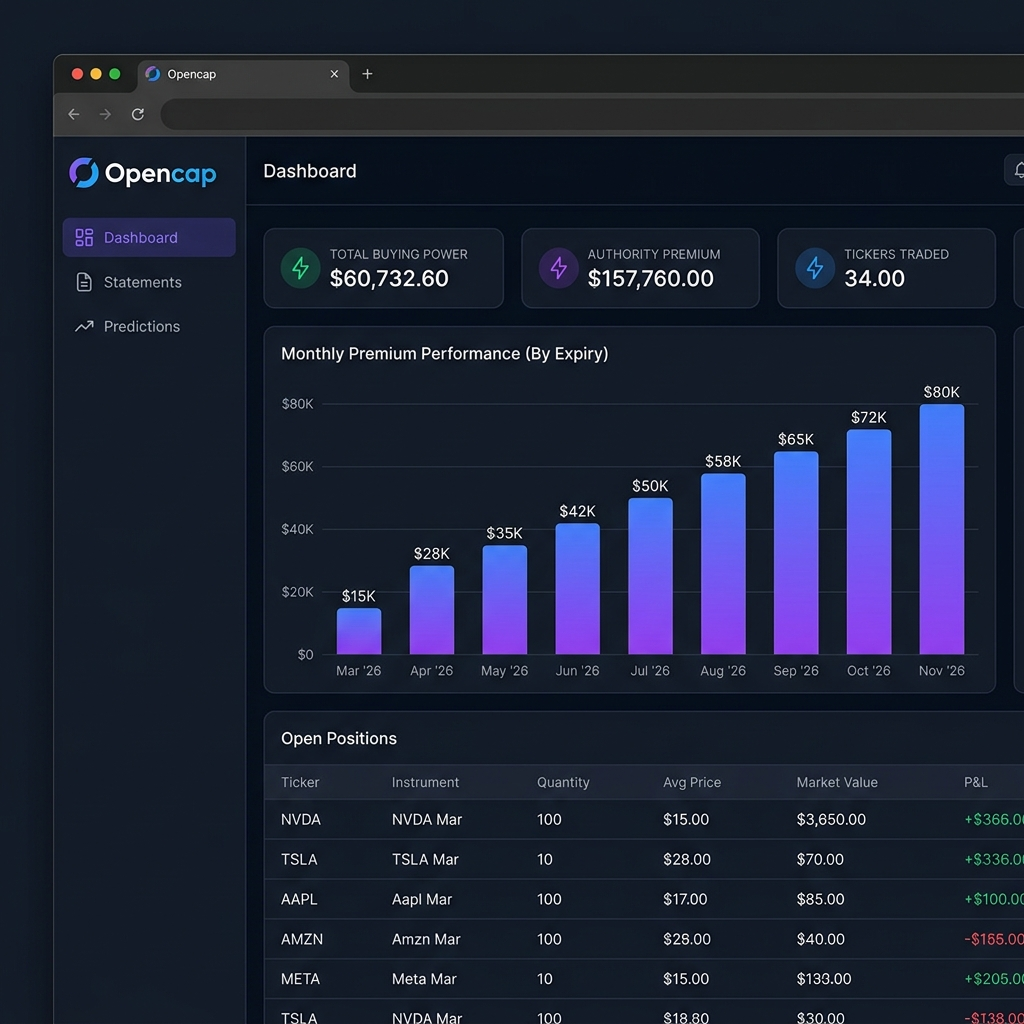
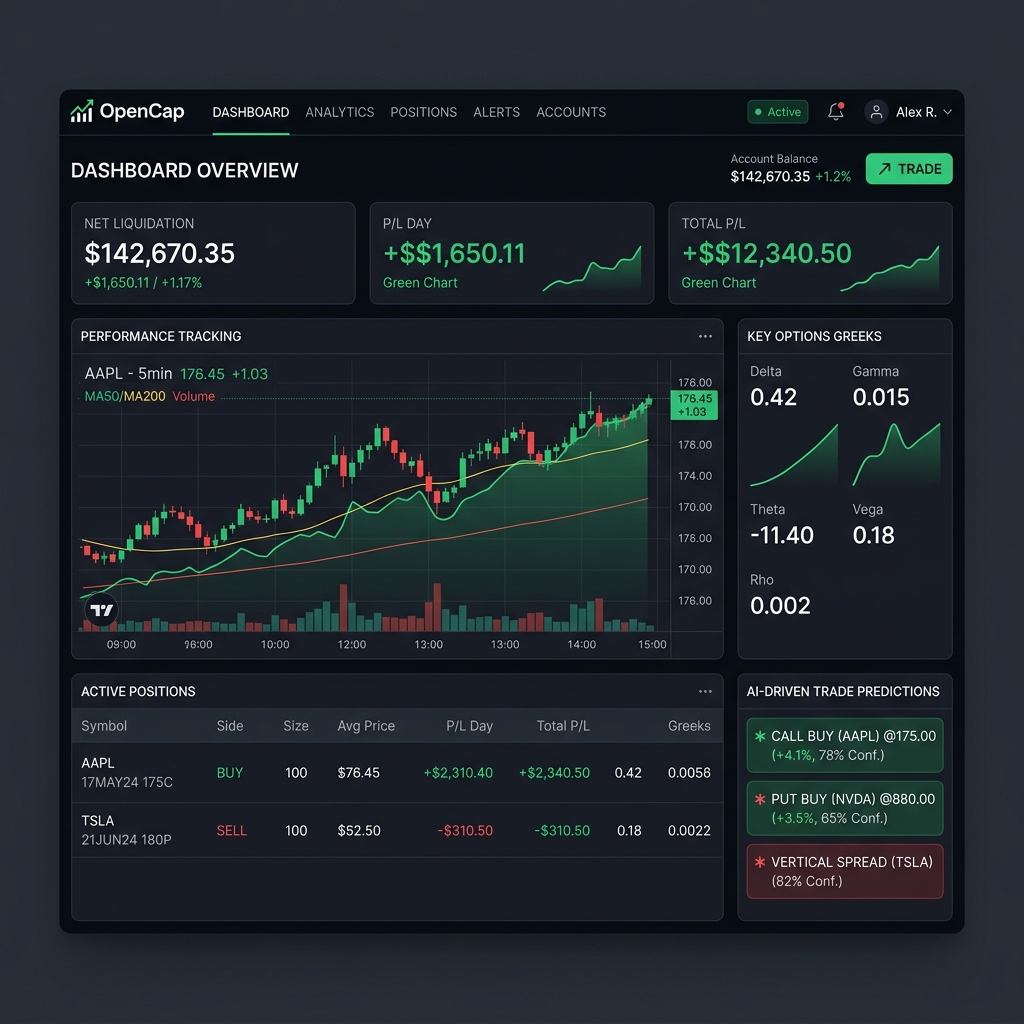
partner products changed

diff --git a/app/page.tsx b/app/page.tsx
@@ -39,114 +39,92 @@ export default function LandingPage() {
     {
       id: "01",
       status: "Live",
-      category: "",
-      title: "Lifestyle & Legacy Management",
+      category: "Family Connectivity",
+      title: "One Connected Platform to Manage Your Life",
       company: "Dockly",
-      description: "A comprehensive lifestyle and legacy management website that helps individuals securely organize and preserve their digital footprint and inheritance.",
+      description: "A simple and elegant family connectivity application designed to help family members coordinate schedules, manage tasks, and track shared finances in one secure space.",
       features: [
-        "Secure Legacy Preserves",
-        "Digital Footprint Care"
+        "Planner & Calendars",
+        "Shared Finances",
+        "Secure Vault"
       ],
       tech: [
-        "Frontend",
-        "Backend"
+        "Next.js",
+        "Node.js",
+        "Tailwind CSS"
       ],
-      industry: "Lifestyle / Legacy",
+      industry: "Family Tech / SaaS",
       duration: "4 months",
       teamSize: "3 members",
       image: "/images/dockly_showcase.png",
-      caseStudyLink: "/contact"
+      websiteLink: "https://app.dockly.me/"
     },
     {
       id: "02",
       status: "Live",
-      category: "Trading Analytics",
-      title: "Trading Analytics Dashboard & Trade Prediction",
-      company: "Open Cap",
-      description: "Options trading analytics platform with real-time performance tracking, open positions management, and AI-driven trade predictions.",
+      category: "Global Education",
+      title: "Study Abroad & Admissions Consulting",
+      company: "CastleGEC",
+      description: "A comprehensive education portal connecting students in Dubai with top-tier universities across the US, UK, and EU, streamlining applications, visa processing, and portfolio creation.",
       features: [
+        "University Admissions",
+        "Visa Guidance",
+        "Admissions Insights"
+      ],
+      tech: [
+        "Next.js",
+        "React",
+        "Tailwind CSS"
+      ],
+      industry: "EdTech / Consulting",
+      duration: "3 months",
+      teamSize: "2 members",
+      image: "/images/castlegc_showcase.png",
+      websiteLink: "https://castlegec.com/"
+    },
+    {
+      id: "03",
+      status: "In Progress",
+      category: "Trading Analytics",
+      title: "Trading Analytics & Prediction Dashboard",
+      company: "OpenCap",
+      description: "An options trading analytics platform designed for real-time portfolio performance tracking, open positions management, and AI-driven trade prediction models.",
+      features: [
+        "AI Trade Prediction",
         "Portfolio Analytics",
-        "Trade Prediction",
-        "Premium Charts",
         "Positions Tracker"
       ],
       tech: [
         "React.js",
         "Node.js",
-        "PostgreSQL",
-        "AWS"
+        "PostgreSQL"
       ],
       industry: "Fintech / Trading",
       duration: "5 months",
       teamSize: "4 members",
-      image: "/images/opencap_showcase.png",
-      caseStudyLink: "/contact"
-    },
-    {
-      id: "03",
-      status: "Coming Soon",
-      category: "Health & Wellness",
-      title: "Personal Health Tracker",
-      company: "PulseFit",
-      description: "An intuitive mobile application that aggregates health metrics, tracks daily exercises, and offers personalized nutritional coaching.",
-      features: [
-        "Biometric Sync",
-        "AI Meal Coach"
-      ],
-      tech: [
-        "React Native",
-        "Expo",
-        "FastAPI"
-      ],
-      industry: "Healthcare",
-      duration: "TBD",
-      teamSize: "2 members",
-      image: "https://images.unsplash.com/photo-1517838277536-f5f99be501cd?auto=format&fit=crop&q=80",
-      caseStudyLink: "/contact"
+      image: "/images/opencap_showcase.png"
     },
     {
       id: "04",
-      status: "In Concept",
-      category: "Finance Tech",
-      title: "Micro-Investing Platform",
-      company: "PennyWise",
-      description: "A simple micro-investing solution that rounds up user transactions and invests the spare change into diversified ETF portfolios.",
+      status: "In Progress",
+      category: "Real Estate Tech",
+      title: "Virtual Homeowners Association Portal",
+      company: "VHOA",
+      description: "A modern resident and property management platform facilitating seamless communication and operations between apartment owners, tenants, and HOA board members.",
       features: [
-        "Auto Round-up",
-        "Custom Portfolios"
+        "Resident Dashboard",
+        "Service Requests",
+        "Announcements"
       ],
       tech: [
         "Next.js",
-        "Python",
+        "Node.js",
         "PostgreSQL"
       ],
-      industry: "Fintech",
-      duration: "TBD",
-      teamSize: "1 member",
-      image: "https://images.unsplash.com/photo-1559526324-4b87b5e36e44?auto=format&fit=crop&q=80",
-      caseStudyLink: "/contact"
-    },
-    {
-      id: "05",
-      status: "In Development",
-      category: "EdTech",
-      title: "Interactive Coding Hub",
-      company: "CodeSprint",
-      description: "A gamified educational workspace offering interactive coding lessons, peer-to-peer code challenges, and live instructor-led debugging rooms.",
-      features: [
-        "Code Playground",
-        "Real-time Debug rooms"
-      ],
-      tech: [
-        "Vue.js",
-        "Express",
-        "Docker"
-      ],
-      industry: "Education",
-      duration: "TBD",
+      industry: "PropTech",
+      duration: "6 months",
       teamSize: "3 members",
-      image: "https://images.unsplash.com/photo-1516321318423-f06f85e504b3?auto=format&fit=crop&q=80",
-      caseStudyLink: "/contact"
+      image: "/images/vhoa_showcase.png"
     }
   ];
 
@@ -2192,8 +2170,8 @@ export default function LandingPage() {
           flex-direction: row;
           overflow: hidden; /* crop image corners */
           max-width: 1250px;
-          min-height: 480px; /* fixed height so all cards are the same size */
-          height: 480px;
+          min-height: 520px; /* fixed height so all cards are the same size */
+          height: 520px;
           margin: 0 auto;
           box-shadow: 0 20px 40px rgba(0,0,0,0.06);
           position: relative;
@@ -2380,6 +2358,29 @@ export default function LandingPage() {
           background: #005AE2;
           width: 24px;
           border-radius: 4px;
+        }
+        .product-checkout-btn {
+          display: inline-flex;
+          align-items: center;
+          justify-content: center;
+          gap: 8px;
+          background-color: #005AE2;
+          color: #FFFFFF;
+          padding: 10px 24px;
+          border-radius: 100px;
+          font-weight: 700;
+          font-size: 0.85rem;
+          border: none;
+          cursor: pointer;
+          transition: all 0.2s ease;
+          box-shadow: 0 4px 12px rgba(0, 90, 226, 0.15);
+          text-decoration: none;
+          margin-top: 12px;
+        }
+        .product-checkout-btn:hover {
+          background-color: #0045B5;
+          transform: translateY(-1px);
+          box-shadow: 0 6px 16px rgba(0, 90, 226, 0.25);
         }
         
         /* Mobile Responsive for Carousel */
@@ -3006,7 +3007,7 @@ export default function LandingPage() {
                 <div>
                   <div className="product-card-divider"></div>
                   
-                  <div className="product-stats-cols">
+                  <div className="product-stats-cols" style={{ marginBottom: partneredProducts[currentProductIndex].status === 'Live' ? '0px' : '8px' }}>
                     <div className="product-stat-col-item">
                       <span className="product-stat-col-label">Industry</span>
                       <span className="product-stat-col-val">{partneredProducts[currentProductIndex].industry}</span>
@@ -3020,6 +3021,23 @@ export default function LandingPage() {
                       <span className="product-stat-col-val">{partneredProducts[currentProductIndex].teamSize}</span>
                     </div>
                   </div>
+
+                  {partneredProducts[currentProductIndex].status === 'Live' && (partneredProducts[currentProductIndex] as any).websiteLink && (
+                    <div style={{ display: 'flex', justifyContent: 'flex-start' }}>
+                      <a 
+                        href={(partneredProducts[currentProductIndex] as any).websiteLink}
+                        target="_blank" 
+                        rel="noopener noreferrer" 
+                        className="product-checkout-btn"
+                      >
+                        <span>Checkout</span>
+                        <svg width="14" height="14" viewBox="0 0 24 24" fill="none" stroke="currentColor" strokeWidth="2.5" strokeLinecap="round" strokeLinejoin="round">
+                          <line x1="7" y1="17" x2="17" y2="7"></line>
+                          <polyline points="7 7 17 7 17 17"></polyline>
+                        </svg>
+                      </a>
+                    </div>
+                  )}
                 </div>
               </div>
               
